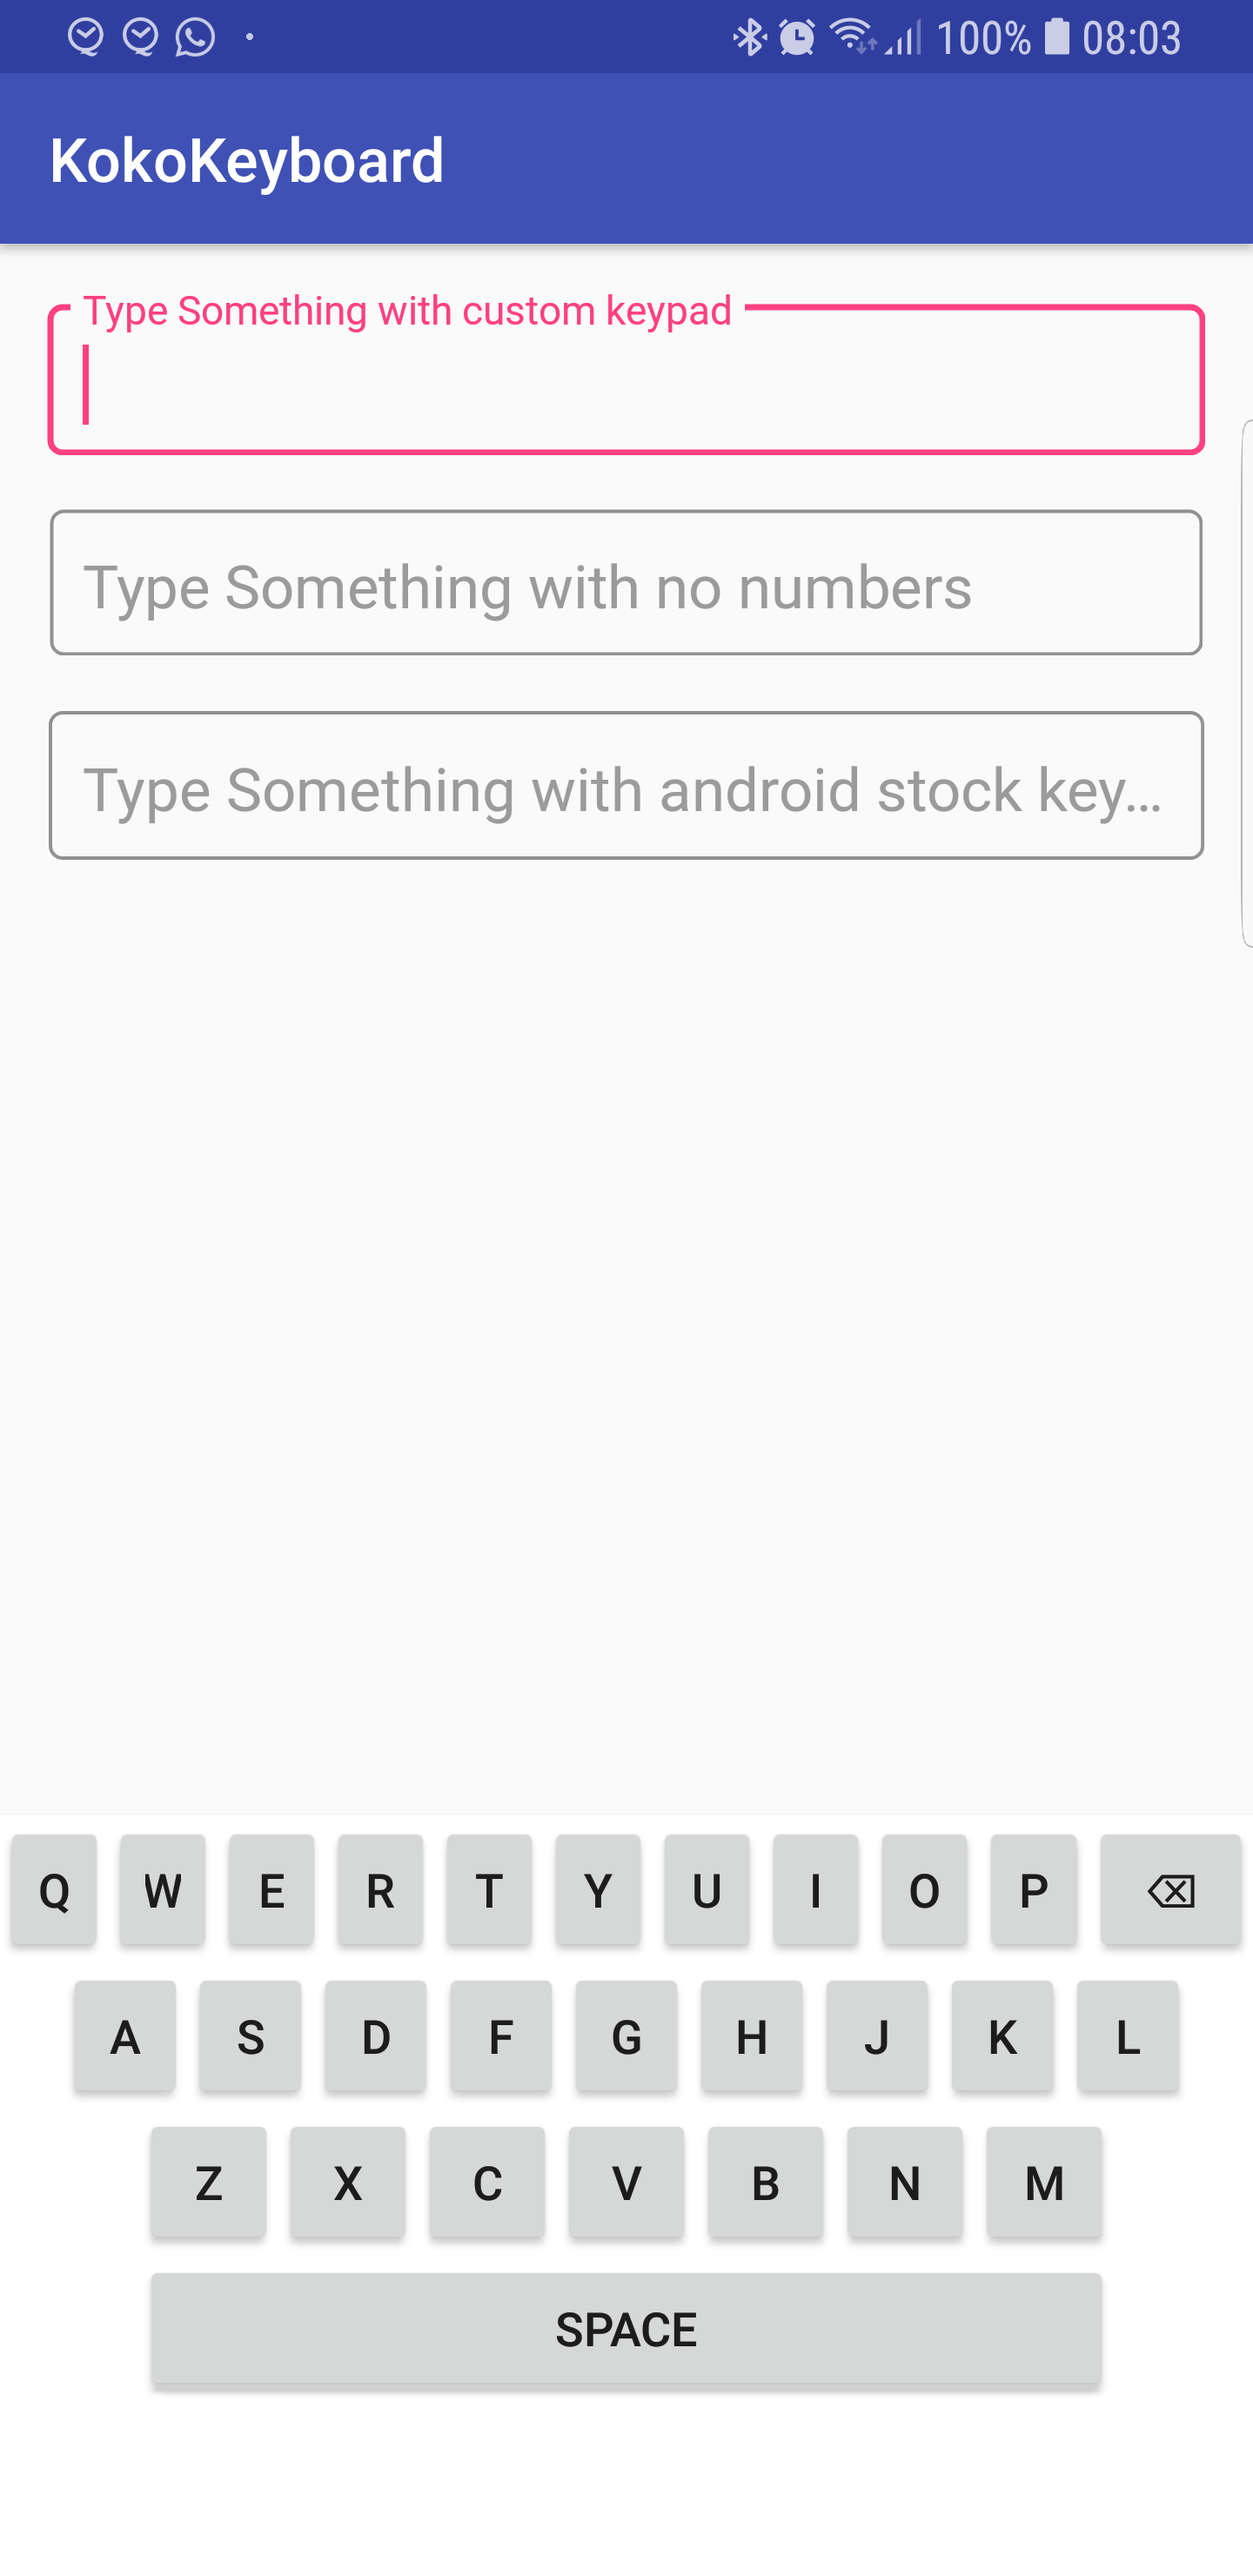
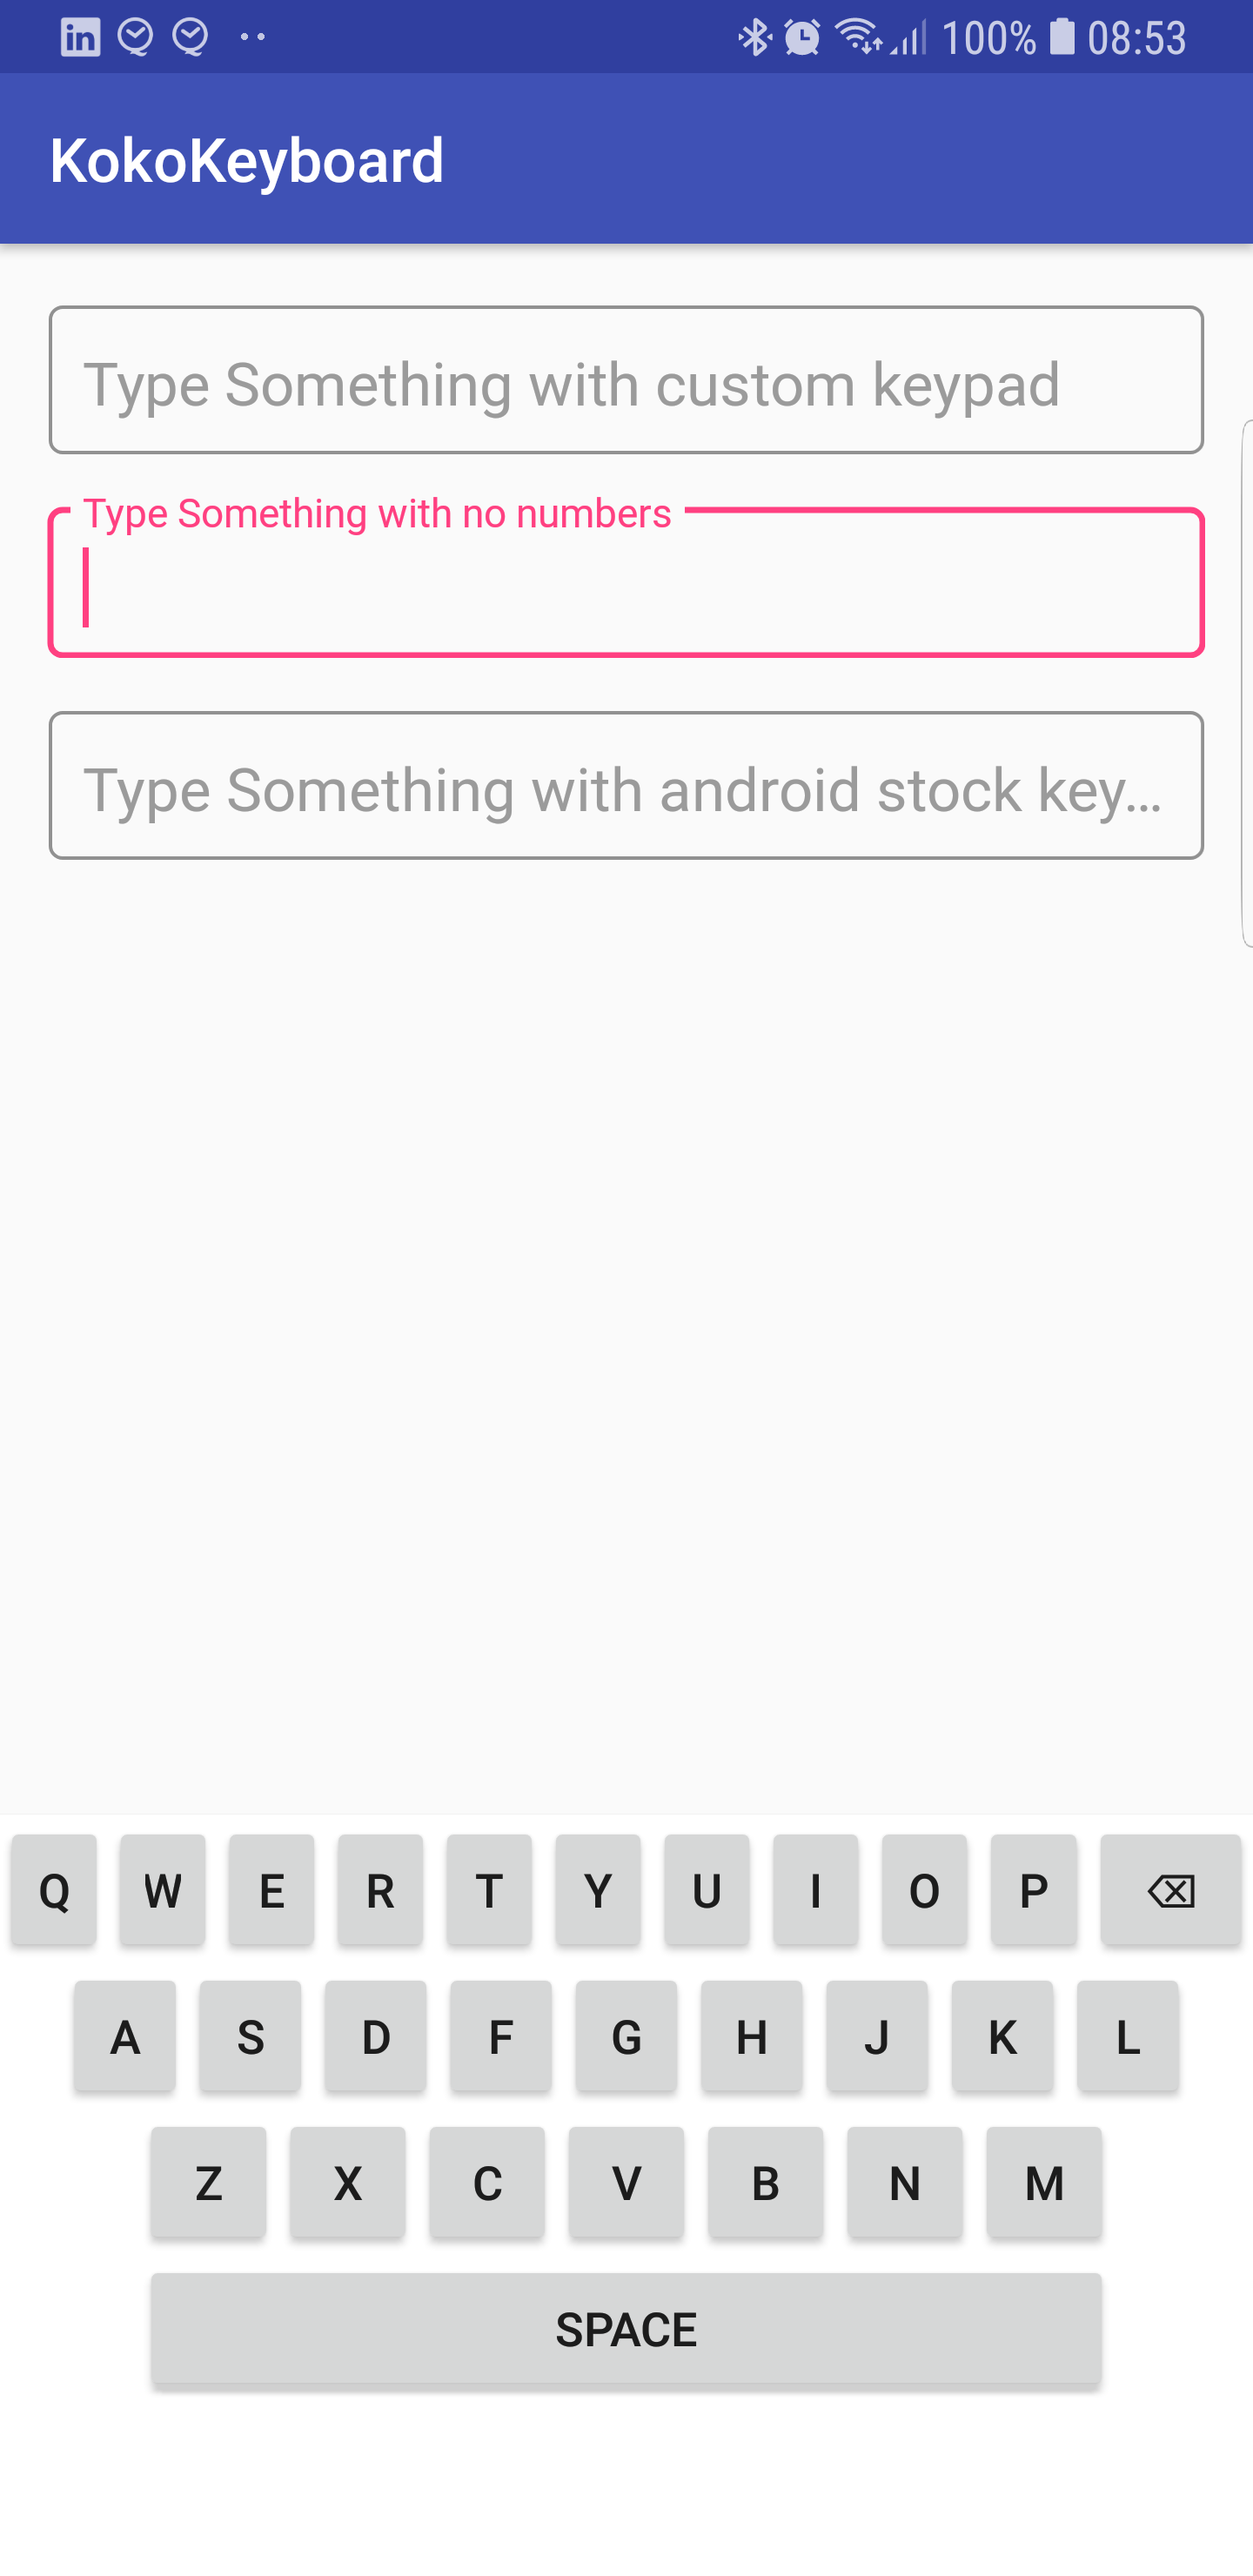
docs: fix EditText type input mismatch

diff --git a/kokokeyboard/src/main/java/com/rowland/kokokeyboard/keypad/KokoKeyboardView.java b/kokokeyboard/src/main/java/com/rowland/kokokeyboard/keypad/KokoKeyboardView.java
@@ -22,7 +22,7 @@ import java.util.HashMap;
 
 public class KokoKeyboardView extends ExpandableRelativeLayout {
 
-    public static final int INPUT_TYPE_NUM = -10;
+    public static final int INPUT_TYPE_QWERTY_NUM = -10;
     public static final int INPUT_TYPE_QWERTY = -20;
 
     private EditText activeEditField;
@@ -150,7 +150,7 @@ public class KokoKeyboardView extends ExpandableRelativeLayout {
         View view;
 
         switch (type) {
-            case INPUT_TYPE_NUM:
+            case INPUT_TYPE_QWERTY_NUM:
                 view = LayoutInflater.from(getContext()).inflate(R.layout.qwerty_keypad_with_num, null);
                 keypad.addView(view);
                 return keypad;

diff --git a/sample/src/main/java/com/rowland/keyboard/KeyboardActivity.java b/sample/src/main/java/com/rowland/keyboard/KeyboardActivity.java
@@ -21,8 +21,8 @@ public class KeyboardActivity extends AppCompatActivity {
         EditText qwertyNonNumEditText = findViewById(R.id.input_text_non_num);
 
         keyboard = findViewById(R.id.keyboardview);
-        keyboard.registerEditText(KokoKeyboardView.INPUT_TYPE_QWERTY, qwertyEditText);
-        keyboard.registerEditText(KokoKeyboardView.INPUT_TYPE_NUM, qwertyNonNumEditText);
+        keyboard.registerEditText(KokoKeyboardView.INPUT_TYPE_QWERTY_NUM, qwertyEditText);
+        keyboard.registerEditText(KokoKeyboardView.INPUT_TYPE_QWERTY, qwertyNonNumEditText);
     }
 
     @Override

diff --git a/README.md b/README.md
@@ -150,7 +150,7 @@ We have various key types like `SquareKeyView` for normal `char` entry and `Rect
 ### Coming Soon
 
 - Availability as system-wide Android Keyboard. This will be achieved using `KeyInputMethodService` implementaion of `InputMethodService`.
-- Support for more special `char` and special actions like delet select, forward delete, mode change e.t.c
+- Support for more special `char` and special actions like delete select, forward delete, mode change e.t.c
 - Support for customized look i.e themes.
 
 ### Developers
